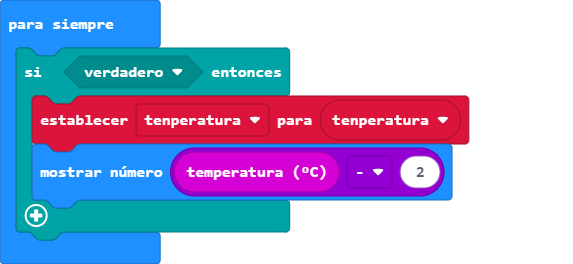
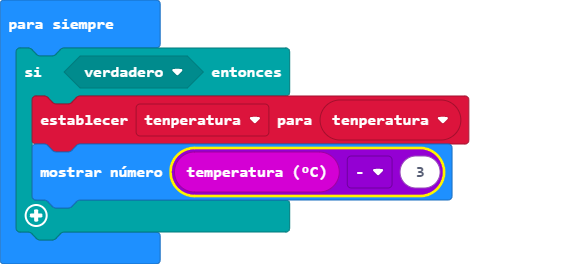
Actualizar main.blocks, main.ts

Changed region(s): [[0.2967, 0.5455, 0.7714, 0.7576], [0.7714, 0.6061, 0.801, 0.697], [0.712, 0.6364, 0.7417, 0.6667]]

diff --git a/main.ts b/main.ts
@@ -2,6 +2,6 @@ let tenperatura = 0
 basic.forever(function () {
     if (true) {
         tenperatura = tenperatura
-        basic.showNumber(input.temperature() - 2)
+        basic.showNumber(input.temperature() - 3)
     }
 })
